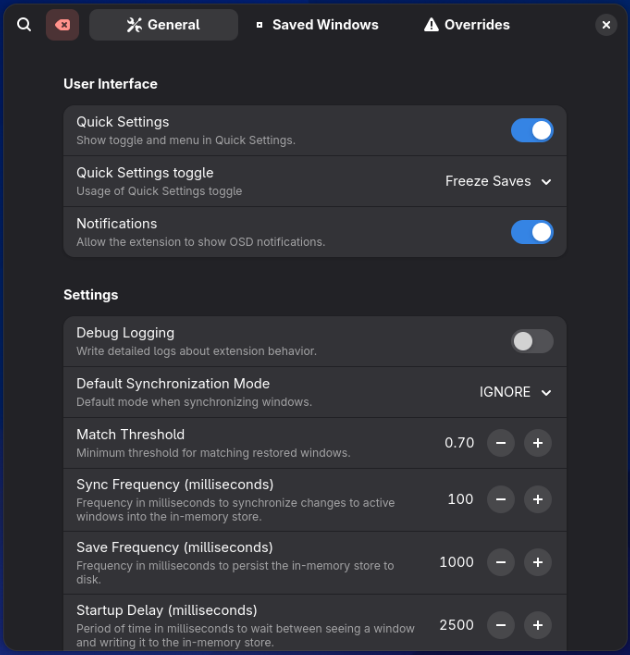
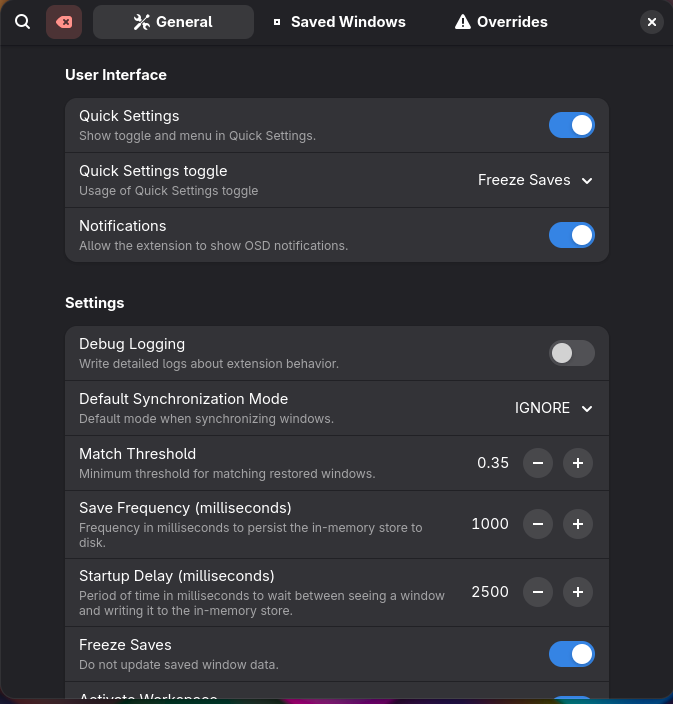
docs(general): Update general screenshot

diff --git a/[email redacted]/extension.js b/[email redacted]/extension.js
@@ -262,9 +262,18 @@ export default class SmartAutoMoveNG extends Extension {
 
     _cleanupWindowSignals() {
         if (this._windowCreatedSignal !== null) global.display.disconnect(this._windowCreatedSignal);
+        this._cleanupMappingWindowSignals();
+        this._cleanupTrackedWindowSignals();
+        this._cleanupPendingWindowSignals();
+    }
+
+    _cleanupMappingWindowSignals() {
         for (const window of this._mappingWindowSignals.keys()) {
             this._removeMappingWindow(window);
         }
+    }
+
+    _cleanupTrackedWindowSignals() {
         for (const [window, ids] of this._trackedWindows.entries()) {
             if (window) {
                 if (ids.provisionalTimeoutId !== null) {
@@ -282,25 +291,34 @@ export default class SmartAutoMoveNG extends Extension {
                 window.disconnect(ids.onallworkspaceschangeId);
             }
         }
+    }
+
+    _cleanupPendingWindowSignals() {
         for (const windows of this._pendingWindows.values()) {
             for (const win of windows) {
-                const signals = this._pendingWindowSignals.get(win);
-                if (signals && signals.unmanagedId !== null) {
-                    win.disconnect(signals.unmanagedId);
-                }
-                if (signals && signals.sizeChangedId !== null) {
-                    win.disconnect(signals.sizeChangedId);
-                }
-                if (signals && signals.minimizedId !== null) {
-                    win.disconnect(signals.minimizedId);
-                }
-                if (signals && signals.mappedId !== null) {
-                    win.disconnect(signals.mappedId);
-                }
-                if (signals && signals.timeoutId !== null) {
-                    GLib.Source.remove(signals.timeoutId);
-                }
+                this._disconnectPendingWindowSignals(win);
             }
+        }
+    }
+
+    _disconnectPendingWindowSignals(win) {
+        const signals = this._pendingWindowSignals.get(win);
+        if (!signals) return;
+        
+        if (signals.unmanagedId !== null) {
+            win.disconnect(signals.unmanagedId);
+        }
+        if (signals.sizeChangedId !== null) {
+            win.disconnect(signals.sizeChangedId);
+        }
+        if (signals.minimizedId !== null) {
+            win.disconnect(signals.minimizedId);
+        }
+        if (signals.mappedId !== null) {
+            win.disconnect(signals.mappedId);
+        }
+        if (signals.timeoutId !== null) {
+            GLib.Source.remove(signals.timeoutId);
         }
     }
 